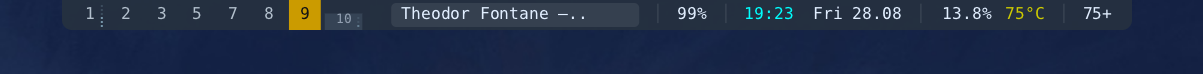
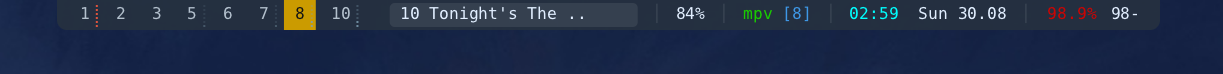
Bigger slim mode bars

Changed region(s): [[0.0615, 0.0, 0.4921, 0.4054], [0.5536, 0.0811, 0.9534, 0.2973]]

diff --git a/swbr.c b/swbr.c
@@ -1058,7 +1058,7 @@ static void cpu_sample(void)
  * `NAME.source=cmus` is the exception: swbr runs cmus-remote itself and reads
  * the answer, so whether something is playing is a fact rather than a guess
  * at what a script happened to print. */
-enum { SRC_CMD, SRC_CMUS, SRC_BATTERY };
+enum { SRC_CMD, SRC_CMUS, SRC_BATTERY, SRC_WINDOW };
 enum { PS_UNKNOWN = -1, PS_STOPPED = 0, PS_PAUSED = 1, PS_PLAYING = 2 };
 typedef struct {
     char  name[32];
@@ -1148,6 +1148,8 @@ typedef struct {
     /* colors */
     Col bg, text, dim, accent, hl, urgent, outline, running, slim_warm;
     int ws_other;                /* show other monitors' workspaces too  */
+    int slim_align;              /* folded marks sit under their full-bar
+                                    positions, rather than packed right   */
     int ws_cpu;                  /* the load dot on a workspace button   */
     int ws_cpu_interval;         /* seconds between samples              */
     float ws_cpu_idle;           /* under this, nothing is happening at all */
@@ -1223,6 +1225,7 @@ static void config_defaults(Config *c)
     c->ws_bg         = (Col){ 0x1e, 0x27, 0x33, 0x00 };
     c->ws_fg         = (Col){ 0xb3, 0xc0, 0xcd, 0xff };
     c->ws_other        = 0;
+    c->slim_align      = 1;
     c->ws_cpu          = 1;
     c->ws_cpu_interval = 3;
     c->ws_cpu_idle     = 0.01f;   /* one percent of one core */
@@ -1295,7 +1298,8 @@ static void cell_set(Config *c, const char *name, const char *k, const char *v)
     else if (!strcmp(k, "slim_on")) str_set(e->slim_on, sizeof(e->slim_on), v);
     else if (!strcmp(k, "src_fmt") || !strcmp(k, "cmus_fmt"))
         str_set(e->src_fmt, sizeof(e->src_fmt), v);
-    else if (!strcmp(k, "src_path") || !strcmp(k, "bat_path"))
+    else if (!strcmp(k, "src_path") || !strcmp(k, "bat_path") ||
+             !strcmp(k, "program"))
         str_set(e->src_path, sizeof(e->src_path), v);
     else if (!strcmp(k, "hover")) str_set(e->hover_fmt, sizeof(e->hover_fmt), v);
     else if (!strcmp(k, "hover_slim")) e->hover_slim = atoi(v);
@@ -1312,10 +1316,18 @@ static void cell_set(Config *c, const char *name, const char *k, const char *v)
             if (!*e->bind[1])  str_set(e->bind[1], sizeof(e->bind[1]), "cmus-remote -u");
             if (!*e->bind[2])  str_set(e->bind[2], sizeof(e->bind[2]), "cmus-remote -n");
             if (!*e->bind[3])  str_set(e->bind[3], sizeof(e->bind[3]), "cmus-remote -r");
+        } else if (!strcasecmp(v, "window") || !strcasecmp(v, "program")) {
+            e->source = SRC_WINDOW;
+            e->cmd[0] = 0;                       /* it asks sway, not a shell */
+            if (!e->interval) e->interval = 3;
+            if (e->slim == SLIM_AUTO) e->slim = SLIM_PRESENCE;
+            if (!*e->src_path) str_set(e->src_path, sizeof(e->src_path), e->name);
         } else if (!strcasecmp(v, "battery") || !strcasecmp(v, "bat")) {
             e->source = SRC_BATTERY;
-            /* it reads /sys itself; the command only paces it */
-            str_set(e->cmd, sizeof(e->cmd), "true");
+            /* no command: spawning /bin/true every twenty seconds just to
+             * pace a pair of file reads is silly. cells_tick calls the
+             * reader straight. */
+            e->cmd[0] = 0;
             if (!e->interval) e->interval = 20;
             if (e->slim == SLIM_AUTO) e->slim = SLIM_BAR;
             if (e->slim_max <= e->slim_min) { e->slim_min = 0; e->slim_max = 100; }
@@ -1453,6 +1465,7 @@ static void config_set(Config *c, const char *k, const char *v)
     else if (!strcmp(k, "ws_bg")) parse_color(v, &c->ws_bg);
     else if (!strcmp(k, "ws_fg")) parse_color(v, &c->ws_fg);
     else if (!strcmp(k, "ws_other")) c->ws_other = atoi(v);
+    else if (!strcmp(k, "slim_align")) c->slim_align = atoi(v);
     else if (!strcmp(k, "ws_cpu")) c->ws_cpu = atoi(v);
     else if (!strcmp(k, "ws_cpu_interval")) c->ws_cpu_interval = atoi(v);
     else if (!strcmp(k, "ws_cpu_idle")) c->ws_cpu_idle = (float)atof(v);
@@ -2521,6 +2534,77 @@ static void cmus_parse(Cell *e)
     if (t != e->out) memmove(e->out, t, strlen(t) + 1);
 }
 
+/* a leaf with a pid is a window; containers and workspaces are not */
+static bool node_is_view(const JV *n)
+{
+    if (!n || n->type != J_OBJ) return false;
+    if (jint(n, "pid", -1) <= 0) return false;
+    const JV *kids = jget(n, "nodes");
+    if (kids && kids->type == J_ARR && kids->count > 0) return false;
+    return true;
+}
+
+/* Which workspaces a program has a window on. sway knows; this is the same
+ * question the old shell one-liner asked of swaymsg and jq, without either. */
+static void window_scan(const JV *node, const char *want, const char *ws,
+                        char *out, size_t cap, int *found)
+{
+    if (!node || node->type != J_OBJ) return;
+
+    const char *type = jstr(node, "type", "");
+    if (!strcmp(type, "workspace")) ws = jstr(node, "name", "");
+
+    if (node_is_view(node)) {
+        const char *id  = jstr(node, "app_id", "");
+        const char *cls = jstr(jget(node, "window_properties"), "class", "");
+        const char *nm  = jstr(node, "name", "");
+        if (strcasestr(id, want) || strcasestr(cls, want) || strcasestr(nm, want)) {
+            if (ws && *ws) {
+                char one[80];
+                snprintf(one, sizeof(one), "%s%s", *out ? "|" : "", ws);
+                if (strlen(out) + strlen(one) < cap - 1 && !strstr(out, ws))
+                    strcat(out, one);
+            }
+            (*found)++;
+        }
+    }
+    for (int i = 0; i < node->count; ++i) {
+        const JV *kid = node->items[i];
+        if (!kid) continue;
+        if (kid->type == J_ARR)
+            for (int j = 0; j < kid->count; ++j)
+                window_scan(kid->items[j], want, ws, out, cap, found);
+        else if (kid->type == J_OBJ)
+            window_scan(kid, want, ws, out, cap, found);
+    }
+}
+
+static void window_read(Cell *e)
+{
+    e->out[0] = 0;
+    e->state = PS_STOPPED;
+    if (!*e->src_path) return;                   /* nothing to look for */
+
+    JV *tree = sway_query(IPC_GET_TREE);
+    if (!tree) return;
+
+    char list[256] = "";
+    int  found = 0;
+    window_scan(tree, e->src_path, NULL, list, sizeof(list), &found);
+    jfree(tree);
+
+    if (!found) return;                          /* not running: no cell */
+    e->state = PS_PLAYING;
+
+    char cnt[16];
+    snprintf(cnt, sizeof(cnt), "%d", found);
+    const char *vals[] = { e->name, list, cnt };
+    expand_fmt(e->out, sizeof(e->out), *e->src_fmt ? e->src_fmt : "%n [%w]",
+               "nwc", vals);
+    if (*e->hover_fmt)
+        expand_fmt(e->out_hover, sizeof(e->out_hover), e->hover_fmt, "nwc", vals);
+}
+
 /* capacity and status under /sys/class/power_supply: "83+" while it is
  * filling, "83-" while it is not. The sign says the direction, the number says the
  * charge, and neither needs a script. */
@@ -2617,6 +2701,7 @@ static void cell_finish(Cell *e)
 
     if (e->source == SRC_CMUS)    { cmus_parse(e);  e->len = 0; return; }
     if (e->source == SRC_BATTERY) { battery_read(e); e->len = 0; return; }
+    if (e->source == SRC_WINDOW)  { window_read(e);  e->len = 0; return; }
 
     char *t = trim(e->buf);
     for (char *q = t; *q; ++q) if (*q == '\n' || *q == '\r' || *q == '\t') *q = ' ';
@@ -2669,14 +2754,25 @@ static bool cells_read(void)
     return got;
 }
 
+static bool cells_dirty;         /* something changed without a process */
+
 static void cells_tick(void)
 {
     uint32_t t = now_ms();
     for (int i = 0; i < cfg.cell_count; ++i) {
         Cell *e = &cfg.cell[i];
-        if (e->pid > 0 || !*e->cmd) continue;
+        if (e->pid > 0) continue;
         if (e->interval == 0 && e->next_run) continue;       /* run once */
         if (e->next_run && (int32_t)(t - e->next_run) < 0) continue;
+
+        if ((e->source == SRC_BATTERY || e->source == SRC_WINDOW) && !*e->cmd) {
+            if (e->source == SRC_WINDOW) window_read(e);   /* no process */
+            else                         battery_read(e);
+            e->next_run = t + (uint32_t)(e->interval > 0 ? e->interval * 1000 : 5000);
+            cells_dirty = true;
+            continue;
+        }
+        if (!*e->cmd) continue;
         e->next_run = t + 1;
         cell_spawn(e);
     }
@@ -2747,7 +2843,7 @@ static bool cell_is_msg(Cell *e)
 static bool cell_visible(Cell *e)
 {
     if (cell_is_msg(e)) return true;
-    if (!*e->cmd && !*e->fmt && !*e->empty) return false;
+    if (!*e->cmd && !*e->fmt && !*e->empty && e->source == SRC_CMD) return false;
     if (*e->out) return true;
     return *e->empty || !e->hide_empty;      /* a placeholder stays clickable */
 }
@@ -2818,6 +2914,10 @@ struct Bar {
     struct { float x0, x1; char name[128]; } hit[MAX_WORKSPACES];
     int hits;
     bool hover_open;            /* opened by a hover, folds back on leave */
+    float cellx0[MAX_CELLS], cellx1[MAX_CELLS];  /* where each cell sat in the
+                                                    full bar, so the folded
+                                                    strip can line up with it */
+    float wsx0[MAX_WORKSPACES], wsx1[MAX_WORKSPACES];   /* and each workspace */
     struct { float x0, x1; int cell; } chit[MAX_CELLS];
     int chits;
 };
@@ -3086,8 +3186,9 @@ static void slim_draw_one(Canvas *cv, Cell *e, int mode, float x, float y,
     Col c = slim_color_of(e);
     if (mode == SLIM_PRESENCE) {
         /* the cell only exists while its program does, so a block here means
-         * "that one is up" — its own colour, not shared with any gauge */
-        if (!e->has_slim_color) c = cfg.running;
+         * "that one is up". It keeps the colour it has in the full bar —
+         * painting it green regardless meant the same cell was two different
+         * colours depending on whether the bar was folded. */
         fill_rect(cv, x, y, w, h, c);
         return;
     }
@@ -3097,6 +3198,11 @@ static void slim_draw_one(Canvas *cv, Cell *e, int mode, float x, float y,
         localtime_r(&t, &tmv);
         int hour = (tmv.tm_hour + 11) % 12 + 1;    /* 1..12, 0:xx reads as 12 */
         float dot = 3.0f * s, gap = 2.0f * s;
+        if (w > 12.0f * (dot + gap)) {             /* fill the width it was given */
+            float pitch = w / 12.0f;
+            dot = pitch * 0.62f;
+            gap = pitch - dot;
+        }
         /* Every bar up to the hour, so you count them instead of finding the
          * one lit position: 2 at 02:00, still 2 at 02:55.
          *
@@ -3273,8 +3379,27 @@ static void draw_signals(Canvas *cv, Bar *b, float y, float h, float s, Runs *rs
     float tick = 14.0f * s;
     b->hits = 0;
     b->chits = 0;
+    /* Lined up, a workspace keeps the place its button has in the full bar,
+     * so folding does not shuffle them either. Numbers with no workspace have
+     * no button to line up with, so they are simply not there. */
+    bool ws_aligned = cfg.slim_align != 0;
+    if (ws_aligned) {
+        bool any = false;
+        for (int i = 0; i < ws_count && i < MAX_WORKSPACES; ++i)
+            if (b->wsx1[i] > b->wsx0[i]) { any = true; break; }
+        ws_aligned = any;
+    }
+
     for (int i = 1; i <= slots; ++i) {
         Ws *w = ws_by_num(b, i);
+        float sx = x, sw = tick;
+        if (ws_aligned) {
+            if (!w) continue;                      /* nothing to sit under */
+            int wi = (int)(w - ws_list);
+            if (wi < 0 || wi >= MAX_WORKSPACES || b->wsx1[wi] <= b->wsx0[wi]) continue;
+            sx = b->wsx0[wi] * s;
+            sw = (b->wsx1[wi] - b->wsx0[wi]) * s - gap * 0.5f;
+        }
         Col c = cfg.dim;
         c.a = 60;                                  /* empty slot: a faint place holder */
         bool mine = w ? ws_on_bar(b, w) : true;
@@ -3291,24 +3416,24 @@ static void draw_signals(Canvas *cv, Bar *b, float y, float h, float s, Runs *rs
                 else                          { c = cfg.dim;    c.a = 110; }
             }
         }
-        fill_rect(cv, x, y, tick, h, c);
+        fill_rect(cv, sx, y, sw, h, c);
         if (w) {
             int wi = (int)(w - ws_list);
             Col lc; float lf; bool faint;
             if (cpu_load_col(wi, &lc, &lf, &faint)) {
                 /* Three or four dots up the slot. Filling it solid hid which
                  * workspace it was, which is the thing the slot is for. */
-                dot_column(cv, x, y, tick, h, 2.0f * s, 1.0f * s,
+                dot_column(cv, sx, y, sw, h, 2.0f * s, 1.0f * s,
                            faint ? 0.001f : lf, lc);
             }
         }
         if (w && b->hits < MAX_WORKSPACES) {      /* still switchable when folded */
-            b->hit[b->hits].x0 = x / s;
-            b->hit[b->hits].x1 = (x + tick) / s;
+            b->hit[b->hits].x0 = sx / s;
+            b->hit[b->hits].x1 = (sx + sw) / s;
             str_set(b->hit[b->hits].name, sizeof(b->hit[b->hits].name), w->name);
             b->hits++;
         }
-        x += tick + gap;
+        if (!ws_aligned) x += tick + gap;
     }
 
     if (!cfg.cell_count) {                         /* status_command fallback */
@@ -3342,9 +3467,32 @@ static void draw_signals(Canvas *cv, Bar *b, float y, float h, float s, Runs *rs
     }
     float rx = (float)cv->w - 4.0f * s - total;
     if (rx < x + gap) rx = x + gap;
+
+    /* Folded, a cell can sit under the middle of where it is in the full bar
+     * instead of being packed against the right edge. Toggling then does not
+     * move anything, so the clock is where the clock was and you can hit it
+     * without looking. Falls back to packing until the full bar has been
+     * drawn once, and wherever two marks would overlap. */
+    /* Aligned, a mark takes its cell's whole place — same left edge, same
+       width — so folding changes the height of the bar and nothing else. */
+    float px[MAX_CELLS], pw[MAX_CELLS];
+    bool  aligned = cfg.slim_align != 0;
+    if (aligned) {
+        for (int k = 0; k < n && aligned; ++k) {
+            float c0 = b->cellx0[idx[k]] * s, c1 = b->cellx1[idx[k]] * s;
+            if (c1 <= c0) { aligned = false; break; }        /* never measured */
+            if (c0 < x + gap) c0 = x + gap;
+            if (c1 > (float)cv->w - 3.0f * s) c1 = (float)cv->w - 3.0f * s;
+            if (c1 - c0 < 4.0f * s) { aligned = false; break; }
+            px[k] = c0;
+            pw[k] = c1 - c0 - gap * 0.5f;
+        }
+    }
+
     for (int k = 0; k < n; ++k) {
-        float w = slim_width_of(&cfg.cell[idx[k]], mode[k], s);
-        if (k) rx += join[k] ? 1.0f * s : gap;
+        float w = aligned ? pw[k] : slim_width_of(&cfg.cell[idx[k]], mode[k], s);
+        if (aligned) rx = px[k];
+        else if (k)  rx += join[k] ? 1.0f * s : gap;
         if (rx + w > (float)cv->w - 3.0f * s) break;
         slim_draw_one(cv, &cfg.cell[idx[k]], mode[k], rx, y, w, h, s);
         if (b->chits < MAX_CELLS) {               /* buttons keep working */
@@ -3467,6 +3615,10 @@ static void ws_block_draw(Canvas *cv, Bar *b, Font *f, float x, float y0,
             b->hit[b->hits].x1 = (x + bwid) / s;
             str_set(b->hit[b->hits].name, sizeof(b->hit[b->hits].name), w->name);
             b->hits++;
+        }
+        if (i < MAX_WORKSPACES) {                 /* for the folded strip */
+            b->wsx0[i] = x / s;
+            b->wsx1[i] = (x + bwid) / s;
         }
         x += bwid + (float)cfg.ws_gap * s;
     }
@@ -3708,6 +3860,10 @@ static float draw_group_(Canvas *cv, Bar *b, Font *f, int g, float y0, float vis
             }
             canvas_clip(cv, ox0, cv->cy0, ox1, cv->cy1);
 
+            if (it->cell >= 0 && it->cell < MAX_CELLS) {   /* for the strip */
+                b->cellx0[it->cell] = x / s;
+                b->cellx1[it->cell] = (x + bw[k]) / s;
+            }
             if (b->chits < MAX_CELLS) {
                 b->chit[b->chits].x0 = x / s;
                 b->chit[b->chits].x1 = (x + bw[k]) / s;
@@ -4453,6 +4609,9 @@ static void usage(void)
 "                      bars while playing, one dim one when not\n"
 "  NAME.slim_color=    override this cell's colour on the strip. Without it\n"
 "                      the strip reuses the colour the cell's own text has\n"
+"  NAME.source=window  asks sway which workspaces have a window of\n"
+"                      NAME.program= and prints them: mpv [3|5]. %n the\n"
+"                      name, %w the workspaces, %c the count\n"
 "  NAME.source=battery reads capacity and status out of /sys itself and\n"
 "                      prints 83+ while it is filling, 83- while it is not,\n"
 "                      83= when it is full. NAME.bat_path= points it at a\n"
@@ -4887,6 +5046,7 @@ int main(int argc, char **argv)
         if (status_read()) redraw = true;
         cells_tick();
         if (cells_read()) redraw = true;
+        if (cells_dirty) { cells_dirty = false; redraw = true; }
         if (msg_read()) redraw = true;
         if (ctrl_req) {
             for (int i = 0; i < output_count; ++i) {
